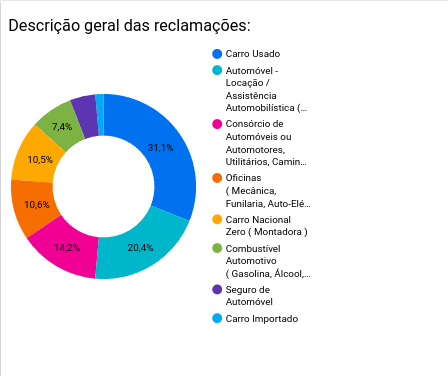
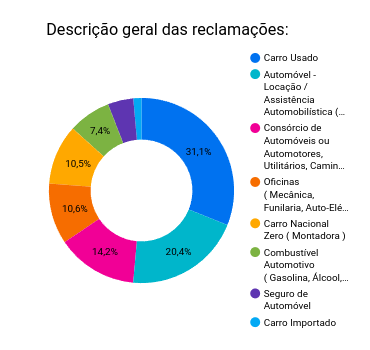
describing the analysis process

diff --git a/README.md b/README.md
@@ -26,8 +26,8 @@
 - [Stack](#stack)
 - [Extração](#extraction)
 - [Transformação](#transformation)
-- [placeholder](#placeholder)
-- [placeholder](#placeholder)
+- [Load](#load)
+- [Análise e visutalização](#analysis)
 
 
 
@@ -122,12 +122,13 @@ Se dá então inicio ao nosso processo ETL.
 
 
 
-Com alguns poucos componentes estabelecemos um fluxo automatizado que faz a sondagem da nossa *staging area* por novos arquivos e os insere em nosso Data Lake. Nessa fase os dados podem se apresentar nos mais diversos formatos(SQL, XML, CSV, PDF), estruturados e não estruturado
-Nessa fase de ingestão inicial a `velocidade` é fundamental, por isso os dados são ingestados puros, sem tratamento prévio, mas ainda sim se atentando em manter um seus dados *catalogáveis* e com *governança* evitando que seu Data Lake vire um Data Swamp(pântano de dados).
+Com alguns poucos providers estabelecemos um fluxo automatizado que faz a sondagem da nossa *staging area* por novos arquivos e os insere em nosso Data Lake. Nessa fase os dados podem se apresentar nos mais diversos formatos(SQL, XML, CSV, PDF), estruturados e não estruturado. Nessa fase de ingestão inicial a `velocidade` é fundamental, por isso os dados são ingestados puros, sem tratamento prévio, mas ainda sim se atentando em manter um seus dados *catalogáveis* e com *governança* evitando que seu Data Lake vire um Data Swamp(pântano de dados).
 
+</br>
 
+</br>
 
-
+</br>
 
 
 
@@ -143,17 +144,7 @@ Nessa fase de ingestão inicial a `velocidade` é fundamental, por isso os dados
 
 Após finalizado nosso processo de extração, é dado início a nossa fase de transformação. Nessa fase fazemos o tratamento de dados tais quais a `limpeza` de dados faltantes ou nulos, `desnormalização` de dados que podem advir de bancos distintos ou pela `normalização` de tabelas relacionais de um mesmo. Também é pertinente a essa área a `filtragem` de atributos/colunas que sejam relevantes ou impactantes a análise a ser desenvolvida.
 
-
-
-
-
-## Placeholder <a name ="placeholder">
-
-
-
-
-
-## Placeholder <a name ="placeholder">
+</br>
 
 
 
@@ -163,9 +154,49 @@ Após finalizado nosso processo de extração, é dado início a nossa fase de t
 
 
 
+## Load <a name ="load">
+
+<img src="./.img/loadpg.png" alt="our stack of technology used">
+
+</br>
+
+Ao final da fase de **transformação** já é inciada a fase  de **load**, onde os nossos DataFrame com os dados tratados são finalmente carregados no nosso Data Warehouse para posteriormente serem consumidos. Aqui de fato é 
+
+</br>
 
 
 
+## Análise e visualização <a name ="insight">
+
+Após o fim do nosso processo **ETL** os dados podem ser consumidos diretamente do`Data Warehouse` por uma ferramenta de BI. Nesse projeto utilizamos o **Google Data Studio** que já disponibiliza um conector a bancos PostgreSQL.
+
+
+
+Em primeira análise observamos um descritivo geral dos motivos da reclamação:
+
+
+
+<img src="./.img/insight1.png" alt="our stack of technology used">
+
+Em um segundo gráfico, filtramos apenas as reclamações referentes a 'Carro Nacional Zero' e 'Carro importado' podemos visualizar melhor quais as maiores causas de insatisfação dos consumidores na aquisição de um carro novo.
+
+<img src="./.img/insight2.png" alt="our stack of technology used">
+
+A exploração de bases relevantes possibilita a extração de insights que auxiliam a empresa na tomada de decisões. Em uma rápida análise nos permite perceber que uma dos principais motivos de reclamação é referente a problemas logísticos
+
+
+
+
+
+<img src="./.img/insight3.png" alt="our stack of technology used">
+
+
+
+Uma análise demográfica mais apurada também nos possibilita identificar onde o nosso público alvo mais se concentra, permitindo um investimento direcionado para máxima eficácia. 
+
+
+
+<img src="./.img/insight4.png" alt="our stack of technology used">
 
 
 
